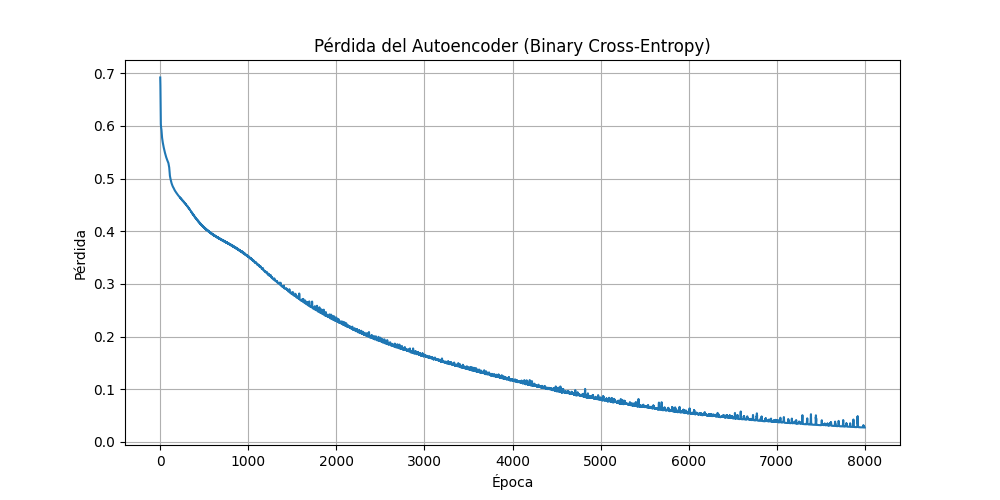
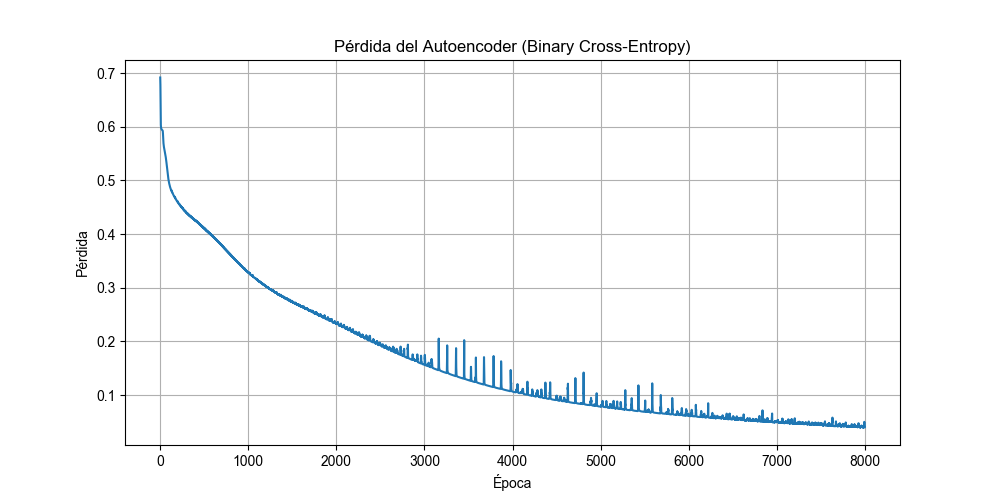
in general looks good

diff --git a/src/runnables/run_ej1.py b/src/runnables/run_ej1.py
@@ -20,11 +20,7 @@ def run_basic_autoencoder():
     
     optimizer = Adam(learning_rate=LEARNING_RATE)
     ae = Autoencoder(optimizer=optimizer)
-    
-    history = ae.fit(X_train, epochs=EPOCHS, verbose=True)
-    ae.save_weights('./saved_models/ae_weights.npz')
-    # Perdida
-    plot_training_loss(history)
+    ae.load_weights('./saved_models/ae_weights_l0027248.npz')
 
     # Espacio Latente
     latent_representations = np.array([
@@ -33,12 +29,16 @@ def run_basic_autoencoder():
     plot_latent_space(latent_representations, char_labels)
 
     # Demo Reconstrucción
-    char_index = 1 # 'a'
-    X_char_a = X_train[char_index]
-    
-    _, X_prime_a = ae.forward(X_char_a.reshape(-1, 1))
-    
-    plot_reconstruction(X_char_a, X_prime_a, char_labels[char_index])
+    for i in range(len(X_train)):
+        X_original = X_train[i]
+        
+        _, X_prime = ae.forward(X_original.reshape(-1, 1))
+        
+        plot_reconstruction(
+            X_original, 
+            X_prime.flatten(), 
+            char_labels[i]
+        )
 
     # Generación de un Nuevo Patrón por Interpolación
     char1_idx = 8 # 'h'

diff --git a/src/utils/data_analysis.py b/src/utils/data_analysis.py
@@ -1,8 +1,6 @@
 import numpy as np
 import matplotlib.pyplot as plt
 
-plt.rcParams['font.family'] = 'Arial Unicode MS'
-
 # Dimensiones constantes para la visualización
 HEIGHT = 7
 WIDTH = 5
